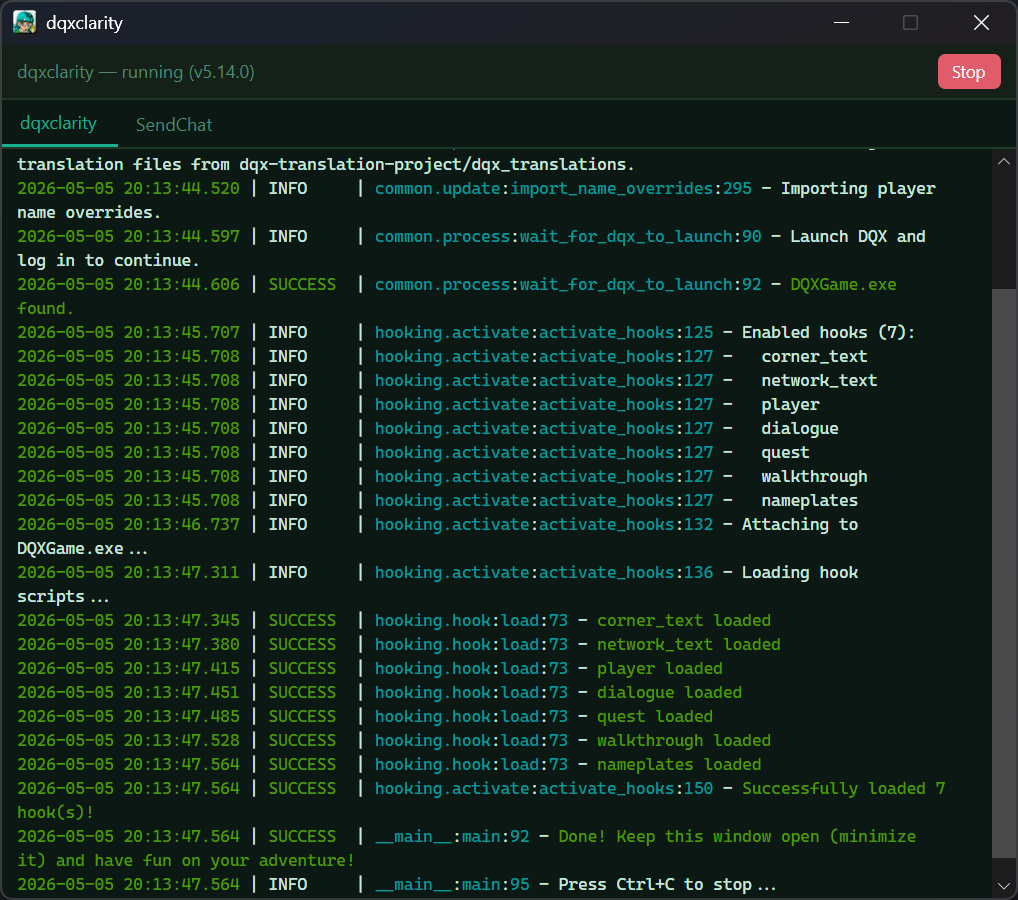
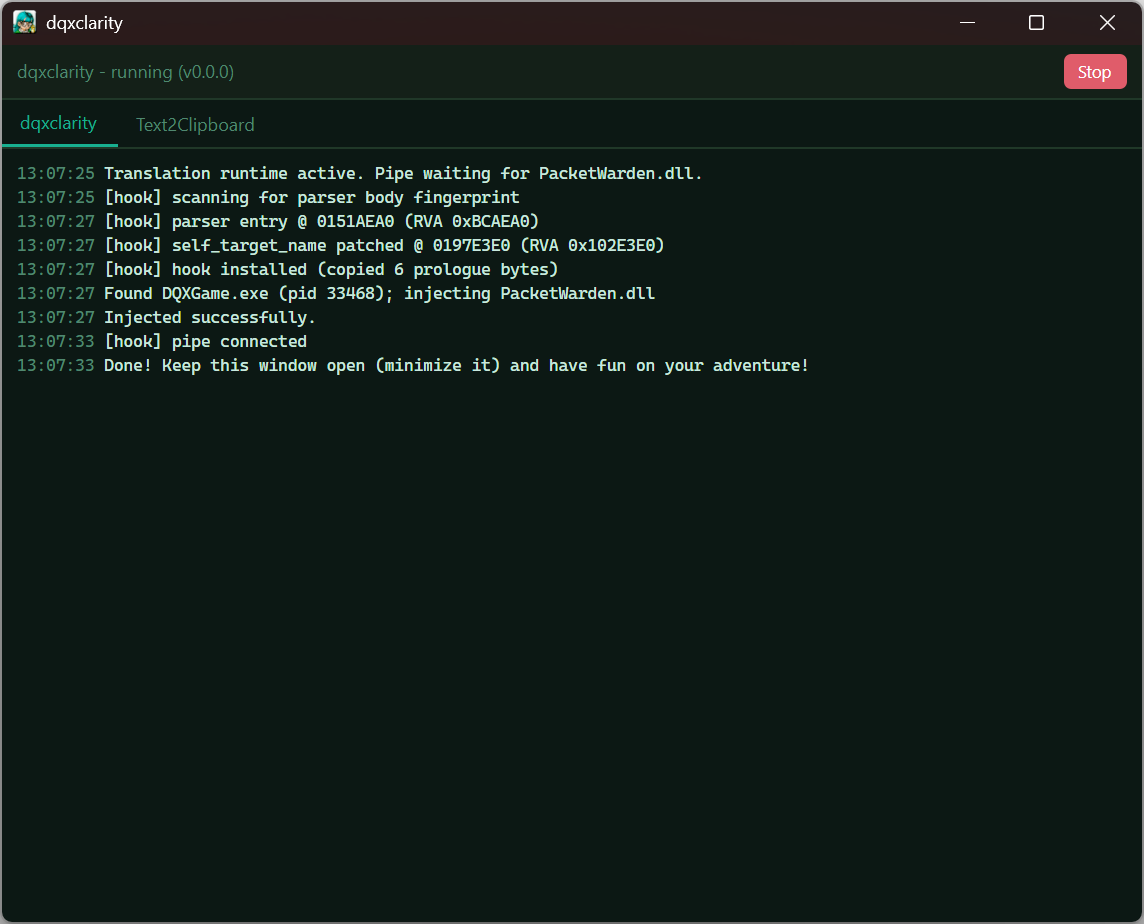
Update github site for 6.0.0 release (#18)

diff --git a/site/dqxclarity.html b/site/dqxclarity.html
@@ -117,17 +117,7 @@
 
       <ol start="3">
         <li>Inside the dqxclarity folder, right-click <code>DQXClarity.exe</code> and click <strong>Run as administrator</strong>.</li>
-        <li>If you don&rsquo;t have .NET 9 installed, dqxclarity will prompt you to install it. You can also install it <a href="https://dotnet.microsoft.com/en-us/download/dotnet/thank-you/runtime-desktop-9.0.17-windows-x64-installer" target="_blank" rel="noopener">here</a>.</li>
-        <li>If you don&rsquo;t have the required Python version installed, you&rsquo;ll see this prompt:</li>
-      </ol>
-
-      <img src="assets/dqxclarity/python_prompt_new.png"
-           alt="Python install prompt in dqxclarity"
-           class="img-md">
-
-      <ol start="6">
-        <li>Click <strong>OK</strong>. Python will silently install in the background along with its dependencies.</li>
-        <li>Once complete, the main dqxclarity window opens:</li>
+		<li>The main dqxclarity window will open as shown below.</li>
       </ol>
 
       <img src="assets/dqxclarity/gui_new.png"
@@ -142,13 +132,25 @@
       <!-- Configuration -->
       <h2 id="configuration">Configuration</h2>
       <p>
-        Each tab has a <strong>?</strong> button that explains what it does.
-        The most important thing is setting your <strong>DQX Folder Path</strong> correctly under the <strong>Game</strong> tab.
+		There are various tabs with several sections in each.
+        Each section has a <strong>?</strong> button that explains what it does.
       </p>
-      <p>Under the <strong>Installation Configuration</strong> tab:</p>
+	  <p>The first tab you'll see is the <strong>General</strong> tab:</p>
+	  
+	  <img src="assets/dqxclarity/dqxclarity_general_tab.png"
+           alt="dqxclarity General tab"
+           class="img-md">
+	  <ul>
+		<li>For the best experience, leave all the checkboxes under "Configuration" checked.</li>
+		<li>For server-sided text to be translated, you must select an API under "API Settings".
+		If you set one up from the previous step, select it and set it up here. Otherwise, choose
+		one of the Free options.
+	  </ul>
+	  
+      <p>Next, you'll want to click the <strong>Game</strong> tab, then the <strong>Install Configuration</strong> tab:</p>
 
       <img src="assets/dqxclarity/dqxclarity_game_tab.png"
-           alt="dqxclarity Game tab - Installation Configuration"
+           alt="dqxclarity Game tab - Install Configuration"
            class="img-md">
 
       <ul>
@@ -168,7 +170,7 @@
         Click the <strong>Download</strong> button on this tab to download the English
         translation pack file. Your screen will then look like the above. As translations
         are often changing due to updates, it's recommended to keep
-        <strong>Automated Updates</strong> checked to always have
+        <strong>Automatic updates</strong> checked to always have
         the latest version of the translation files.
       </p>
 
@@ -212,7 +214,6 @@
       <h2 id="uninstall">Uninstallation</h2>
       <ul>
         <li>Delete the dqxclarity folder from your computer. All installed components are contained within it.</li>
-        <li>Uninstall <code>Python 3.11.3 32-bit</code> from Control Panel.</li>
       </ul>
 
     </div>

diff --git a/site/faq.html b/site/faq.html
@@ -225,33 +225,11 @@
           </div>
         </div>
 
-        <div class="accordion-item reveal">
-          <button class="accordion-trigger">
-            Why do I get error EINVAL [invalid argument]?
-            <i class="accordion-icon">▾</i>
-          </button>
-          <div class="accordion-body">
-            <p>
-              This is likely due to an old or corrupt dat mod. Click <strong>Patch Game Files</strong> in the Game tab
-              to download the latest dat mod files.
-            </p>
-          </div>
-        </div>
       </div>
 
       <!-- Tooling -->
       <div class="faq-group">
         <h2 id="tooling">Tooling</h2>
-
-        <div class="accordion-item reveal">
-          <button class="accordion-trigger">
-            Why do I need to install Python?
-            <i class="accordion-icon">▾</i>
-          </button>
-          <div class="accordion-body">
-            <p>dqxclarity uses the Python programming language internally. It is required and will not work without it.</p>
-          </div>
-        </div>
 
         <div class="accordion-item reveal">
           <button class="accordion-trigger">
